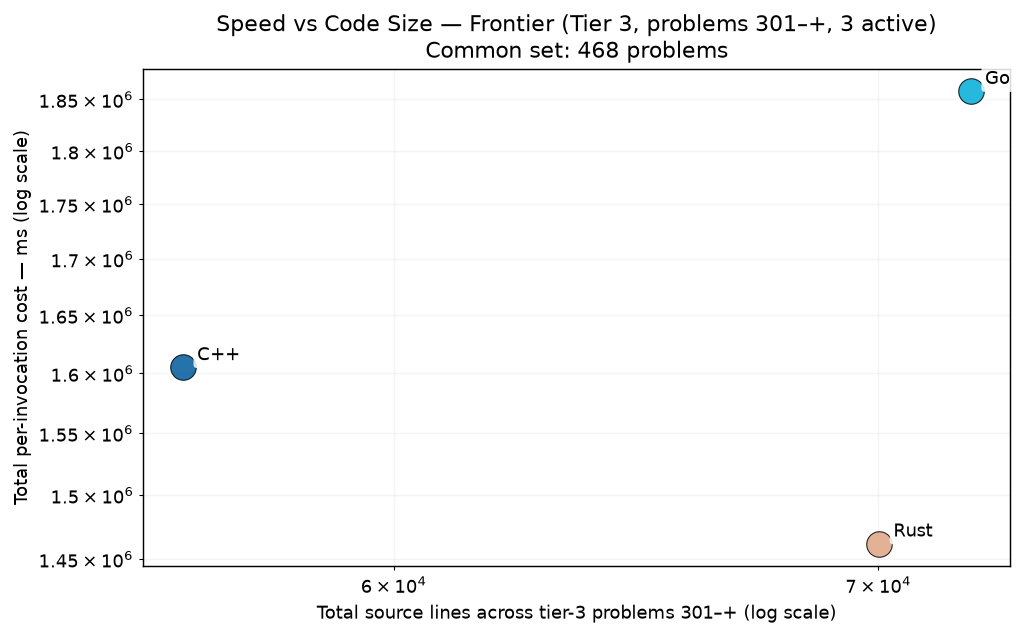
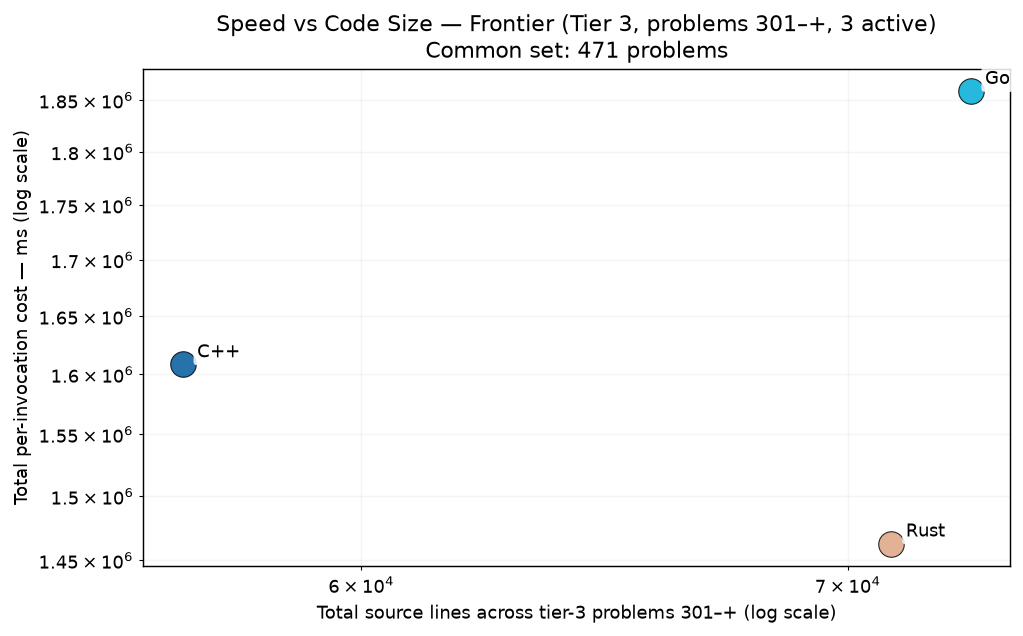
bench: p0844,p0886,p0945 trio results (L19 complete)

diff --git a/RESULTS.md b/RESULTS.md
@@ -1,6 +1,6 @@
 # Project Euler — Cross-Language Benchmarks
 
-> **Scope: 4521 in-scope cells across 1007 problems × tiered languages — 3818 measured (84.5% coverage).**
+> **Scope: 4521 in-scope cells across 1007 problems × tiered languages — 3827 measured (84.6% coverage).**
 > The cross-language ranking below is computed over the **200-problem common set** (problems in 1-200 where every language has a passing measurement) — the apples-to-apples Foundation comparison surface.  Per-tier rankings and coverage detail appear further below.
 > Growing carefully — each new problem and language is audited for state-leak
 > safety, verified for answer correctness, and added only when it cleanly fits the
@@ -70,15 +70,15 @@ Same scatter as the Foundation chart, restricted to the tier-2 active languages 
 
 The frontier verification trio — C++, Go, Rust — on problems above 300. 3-way cross-language agreement is the verification protocol (strictly stronger than 2-way; see JOURNEY.md "Tier Reframing" episode for the p254 lesson that motivated it). Python and Zig are explicitly out of this tier — python's wall cost makes it impractical at level 5+, and zig's role caps at Tier 2.
 
-### Per-Invocation Cost (Common Set, 468 of ≤707 problems in scope)
+### Per-Invocation Cost (Common Set, 471 of ≤707 problems in scope)
 
 ![Per-Invocation Cost — Tier 3](charts/per_iter_total_tier3.png)
 
-| Rank | Language | Geomean (468-problem common set) | Total (sum) | Lines of code | vs Fastest |
+| Rank | Language | Geomean (471-problem common set) | Total (sum) | Lines of code | vs Fastest |
 |------|----------|--------------------:|------------:|--------------:|-----------:|
-| 1 | **Rust** | 62.26 ms | 1461.83 s | 70,015 | 1.00× |
-| 2 | **C++** | 67.35 ms | 1605.03 s | 56,103 | 1.08× |
-| 3 | **Go** | 88.25 ms | 1858.03 s | 72,086 | 1.42× |
+| 1 | **Rust** | 62.52 ms | 1462.71 s | 70,974 | 1.00× |
+| 2 | **C++** | 68.09 ms | 1608.31 s | 56,699 | 1.09× |
+| 3 | **Go** | 88.18 ms | 1858.68 s | 72,777 | 1.41× |
 
 ### Speed vs Code Size
 

diff --git a/per_problem/per_problem_0801-0900.md b/per_problem/per_problem_0801-0900.md
@@ -51,7 +51,7 @@ in tier-1 display order (native → managed → interpreted).
 | **p0841** | — | — | — |
 | **p0842** | — | — | — |
 | **p0843** | — | — | — |
-| **p0844** | — | — | — |
+| **p0844** | 278.72 ms | 75.93 ms | 40.25 ms |
 | **p0845** | 478.9 µs | 2.58 ms | 4.33 ms |
 | **p0846** | — | — | — |
 | **p0847** | — | — | — |
@@ -93,7 +93,7 @@ in tier-1 display order (native → managed → interpreted).
 | **p0883** | — | — | — |
 | **p0884** | 21.59 s | 9.10 s | 21.23 s |
 | **p0885** | 67.61 ms | 65.16 ms | 38.71 ms |
-| **p0886** | — | — | — |
+| **p0886** | 2.93 s | 781.78 ms | 595.44 ms |
 | **p0887** | 24.5 µs | 26.6 µs | 22.7 µs |
 | **p0888** | — | — | — |
 | **p0889** | — | — | — |

diff --git a/per_problem/per_problem_0901-1000.md b/per_problem/per_problem_0901-1000.md
@@ -52,7 +52,7 @@ in tier-1 display order (native → managed → interpreted).
 | **p0942** | — | — | — |
 | **p0943** | — | — | — |
 | **p0944** | 3.35 s | 1.92 s | 1.87 s |
-| **p0945** | — | — | — |
+| **p0945** | 63.51 ms | 29.93 ms | 19.70 ms |
 | **p0946** | 668.33 ms | 5.10 s | 1.29 s |
 | **p0947** | — | — | — |
 | **p0948** | 203.6 µs | 20.7 µs | 41.8 µs |
